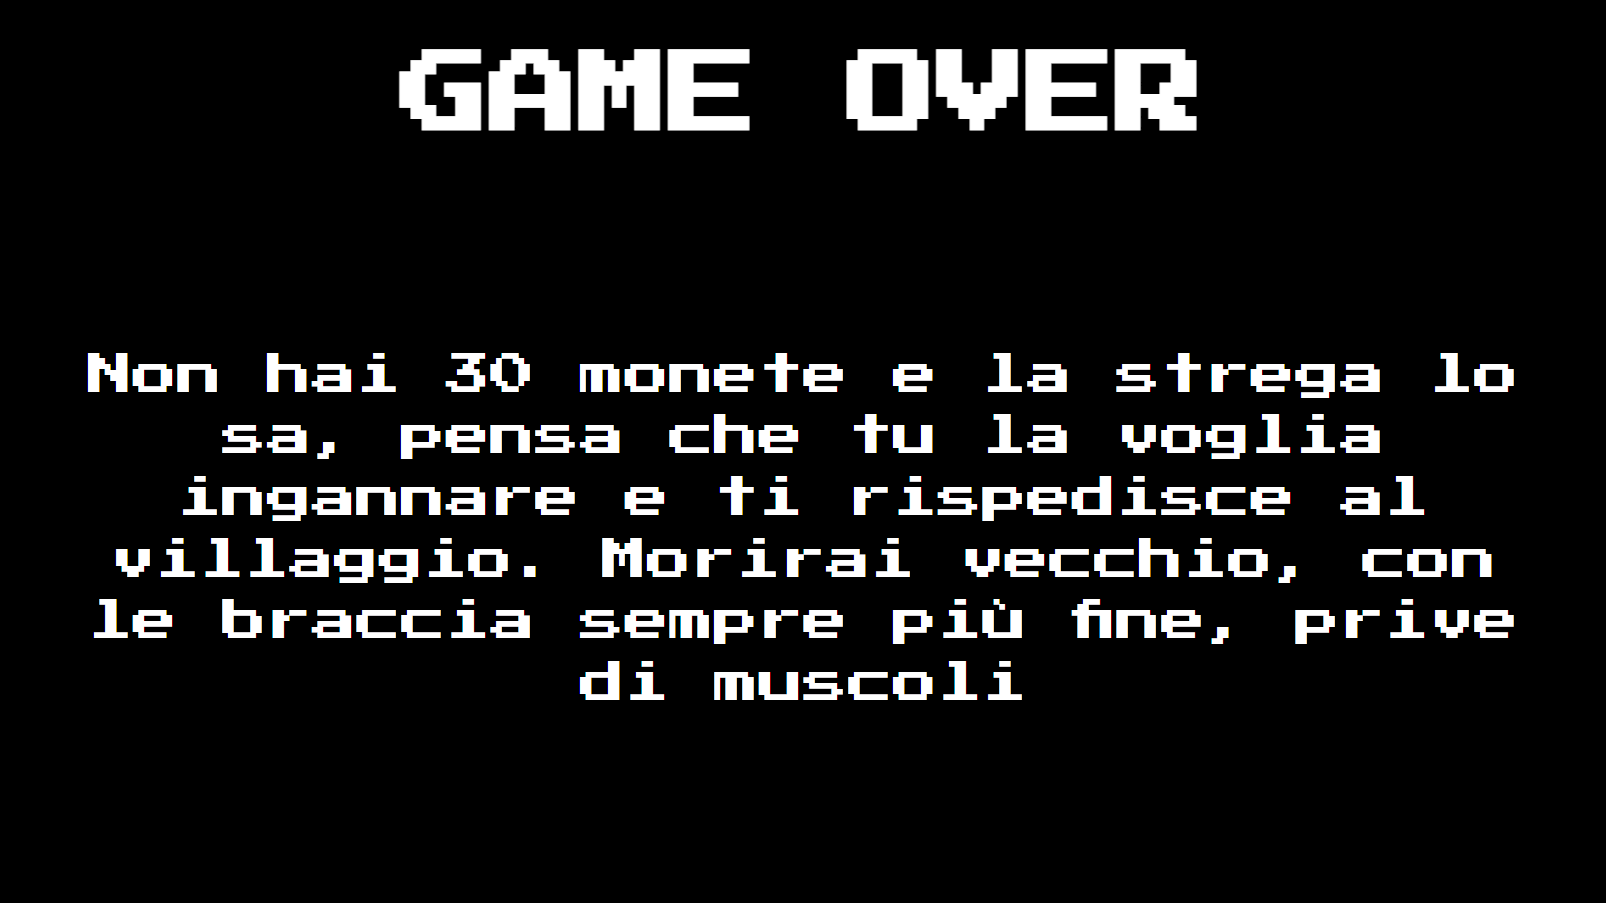
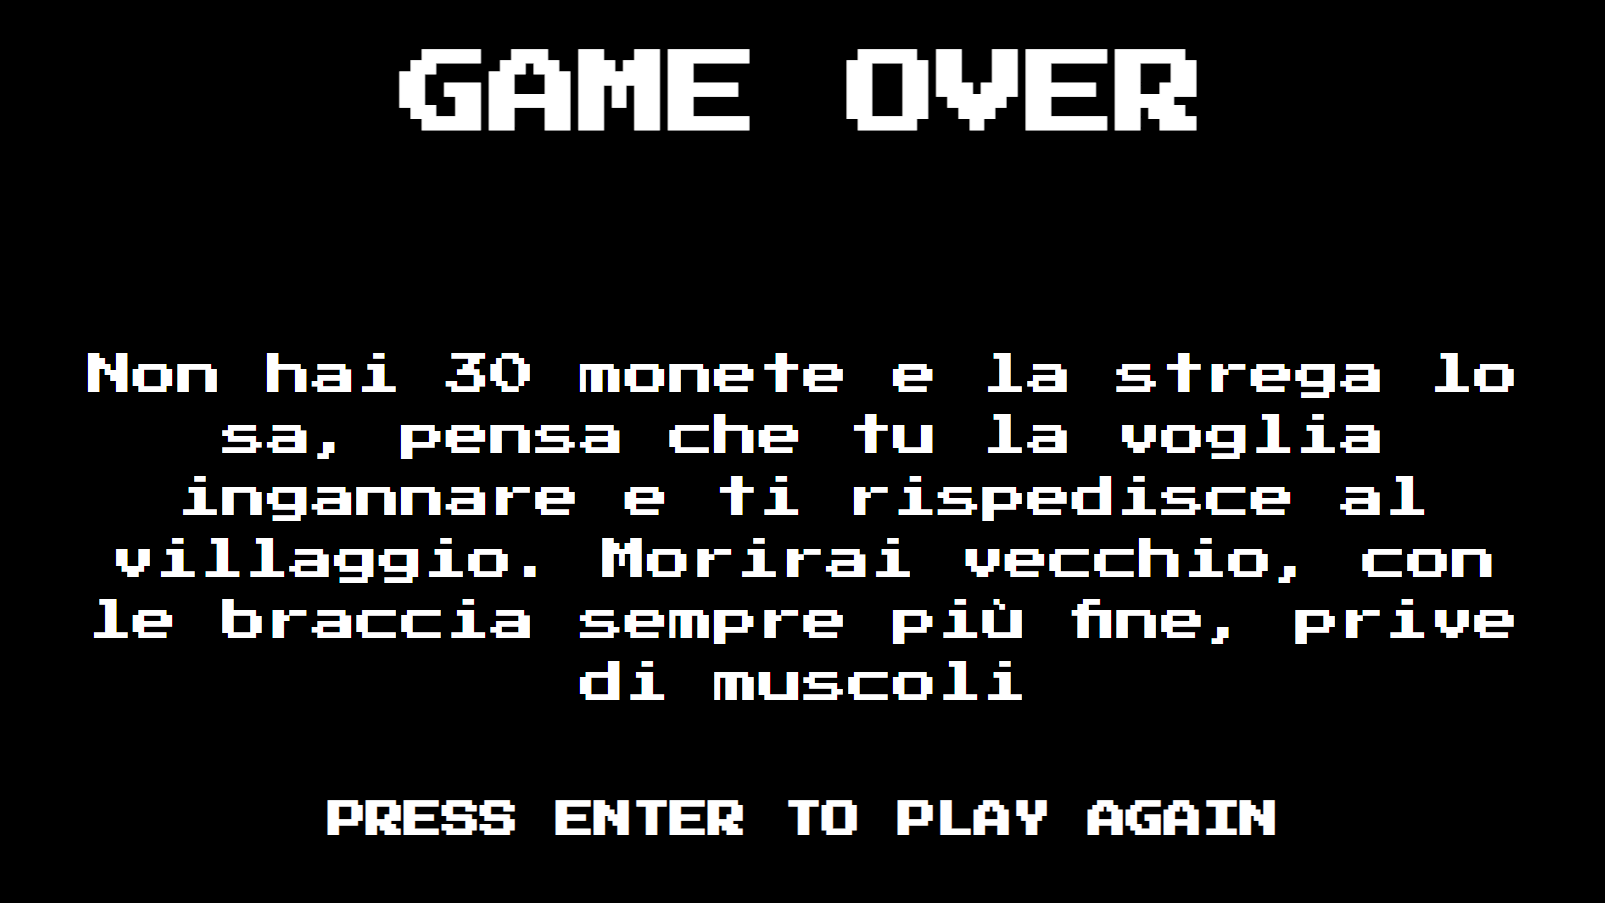
Cambio_sprite ed enter per rigiocare

diff --git a/Game.py b/Game.py
@@ -1,6 +1,6 @@
 '''
 
-COMANDI AMMINISTRATORE:
+COMANDI AMMINISTRATORE: (non sono indicati nei comandi del gioco, ma possono essere usati per il testing e per passare più velocemnte alla fase finale)
 - Premi "Z" per impostare il punteggio a 30 
 - Premi "X" per teletrasportarti direttamente alla fine del livello 
 
@@ -16,10 +16,10 @@ Software utilizzato per lo sviluppo:
 
 Software - siti web utilizzati per la creazione del gioco:
 - Tiled per la creazione dei livelli
-- Itch.io per la ricerca di asset grafici gratuiti
+- Itch.io per la ricerca di assets grafici
 - AI per la creazione e l'editing di sprite personalizzati (Grok e Gemini) e per la scrittura dei dialoghi (ChatGPT e Gemini)
 - Presentazioni Google per la creazione di sfondi personalizzati e per la scrittura della storia del gioco
-- Paint per la rimozione di backgrounds e l'editing di sprite e sfondi
+- Paint e Remove BG per la rimozione di backgrounds e l'editing di sprite e sfondi
 - W3 Schools, Claude AI e i blog su Classroom per aiuto con la programmazione in Python e l'utilizzo di Arcade
 
 '''
@@ -365,6 +365,9 @@ class GameOverView(arcade.View):
             game = GameView()
             game.setup()
             self.window.show_view(game)
+
+        if key == arcade.key.RETURN:
+            self.window.show_view(MenuView())
 
 
 class VittoriaView(arcade.View):
